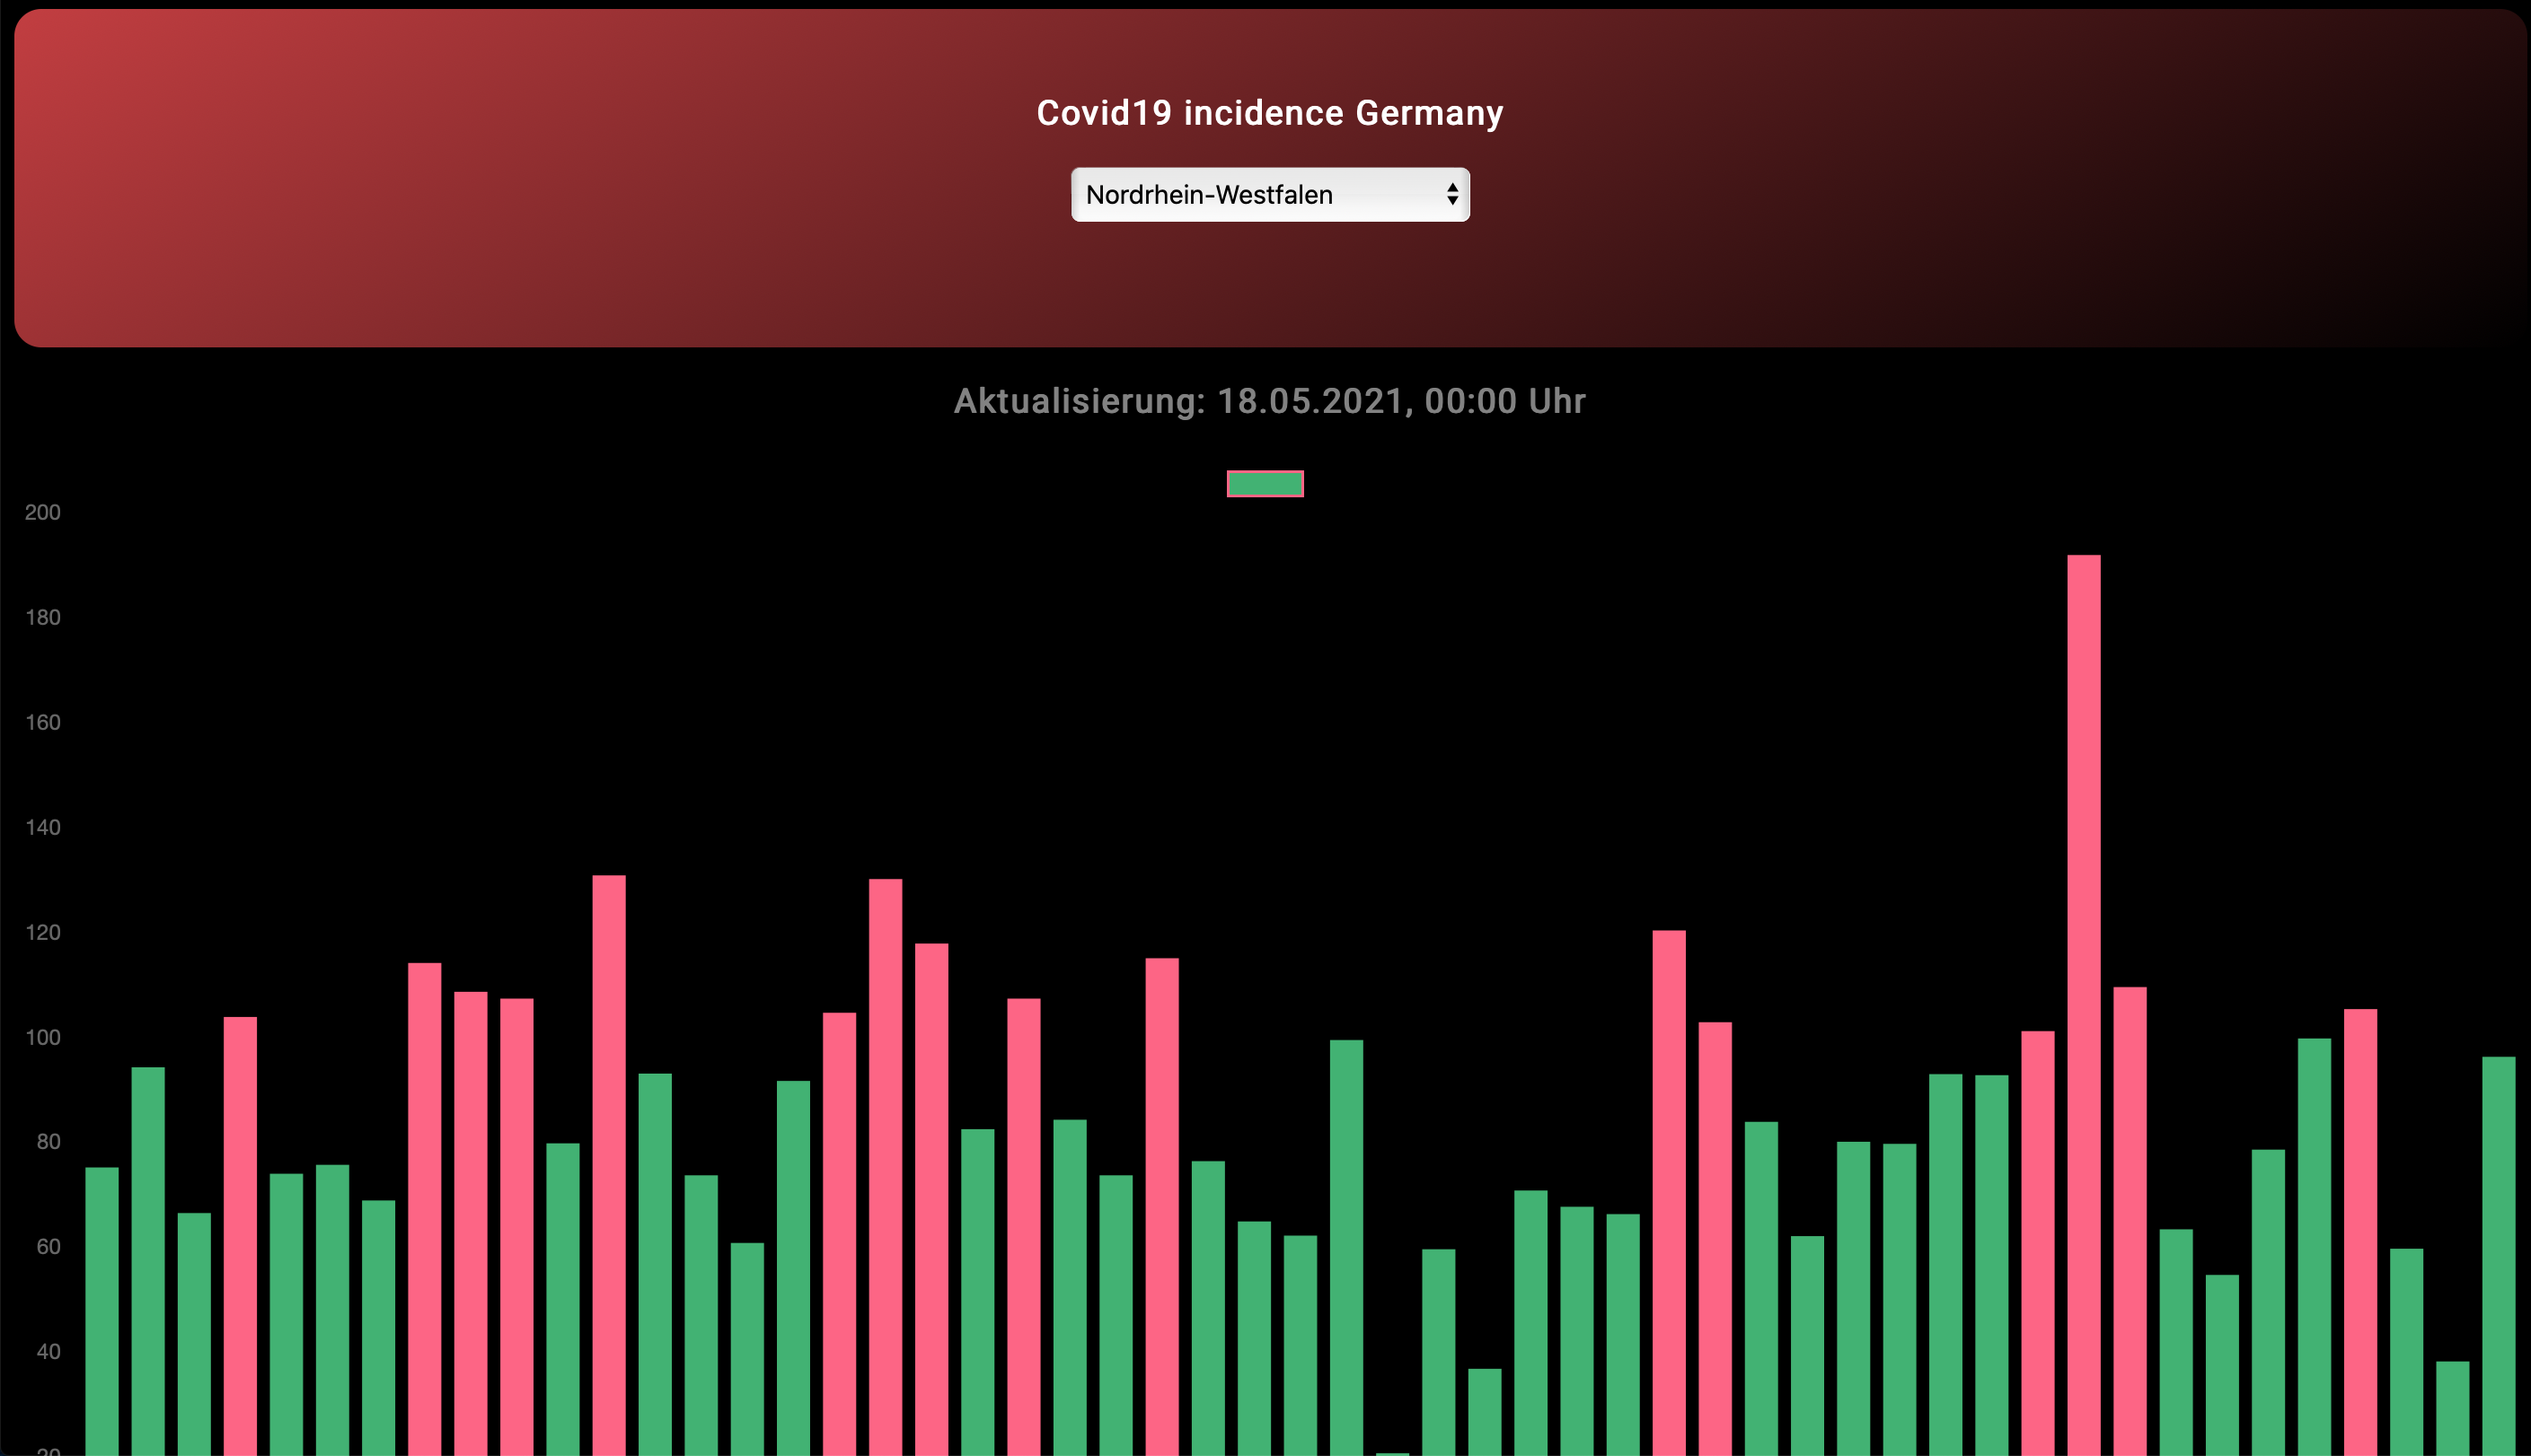
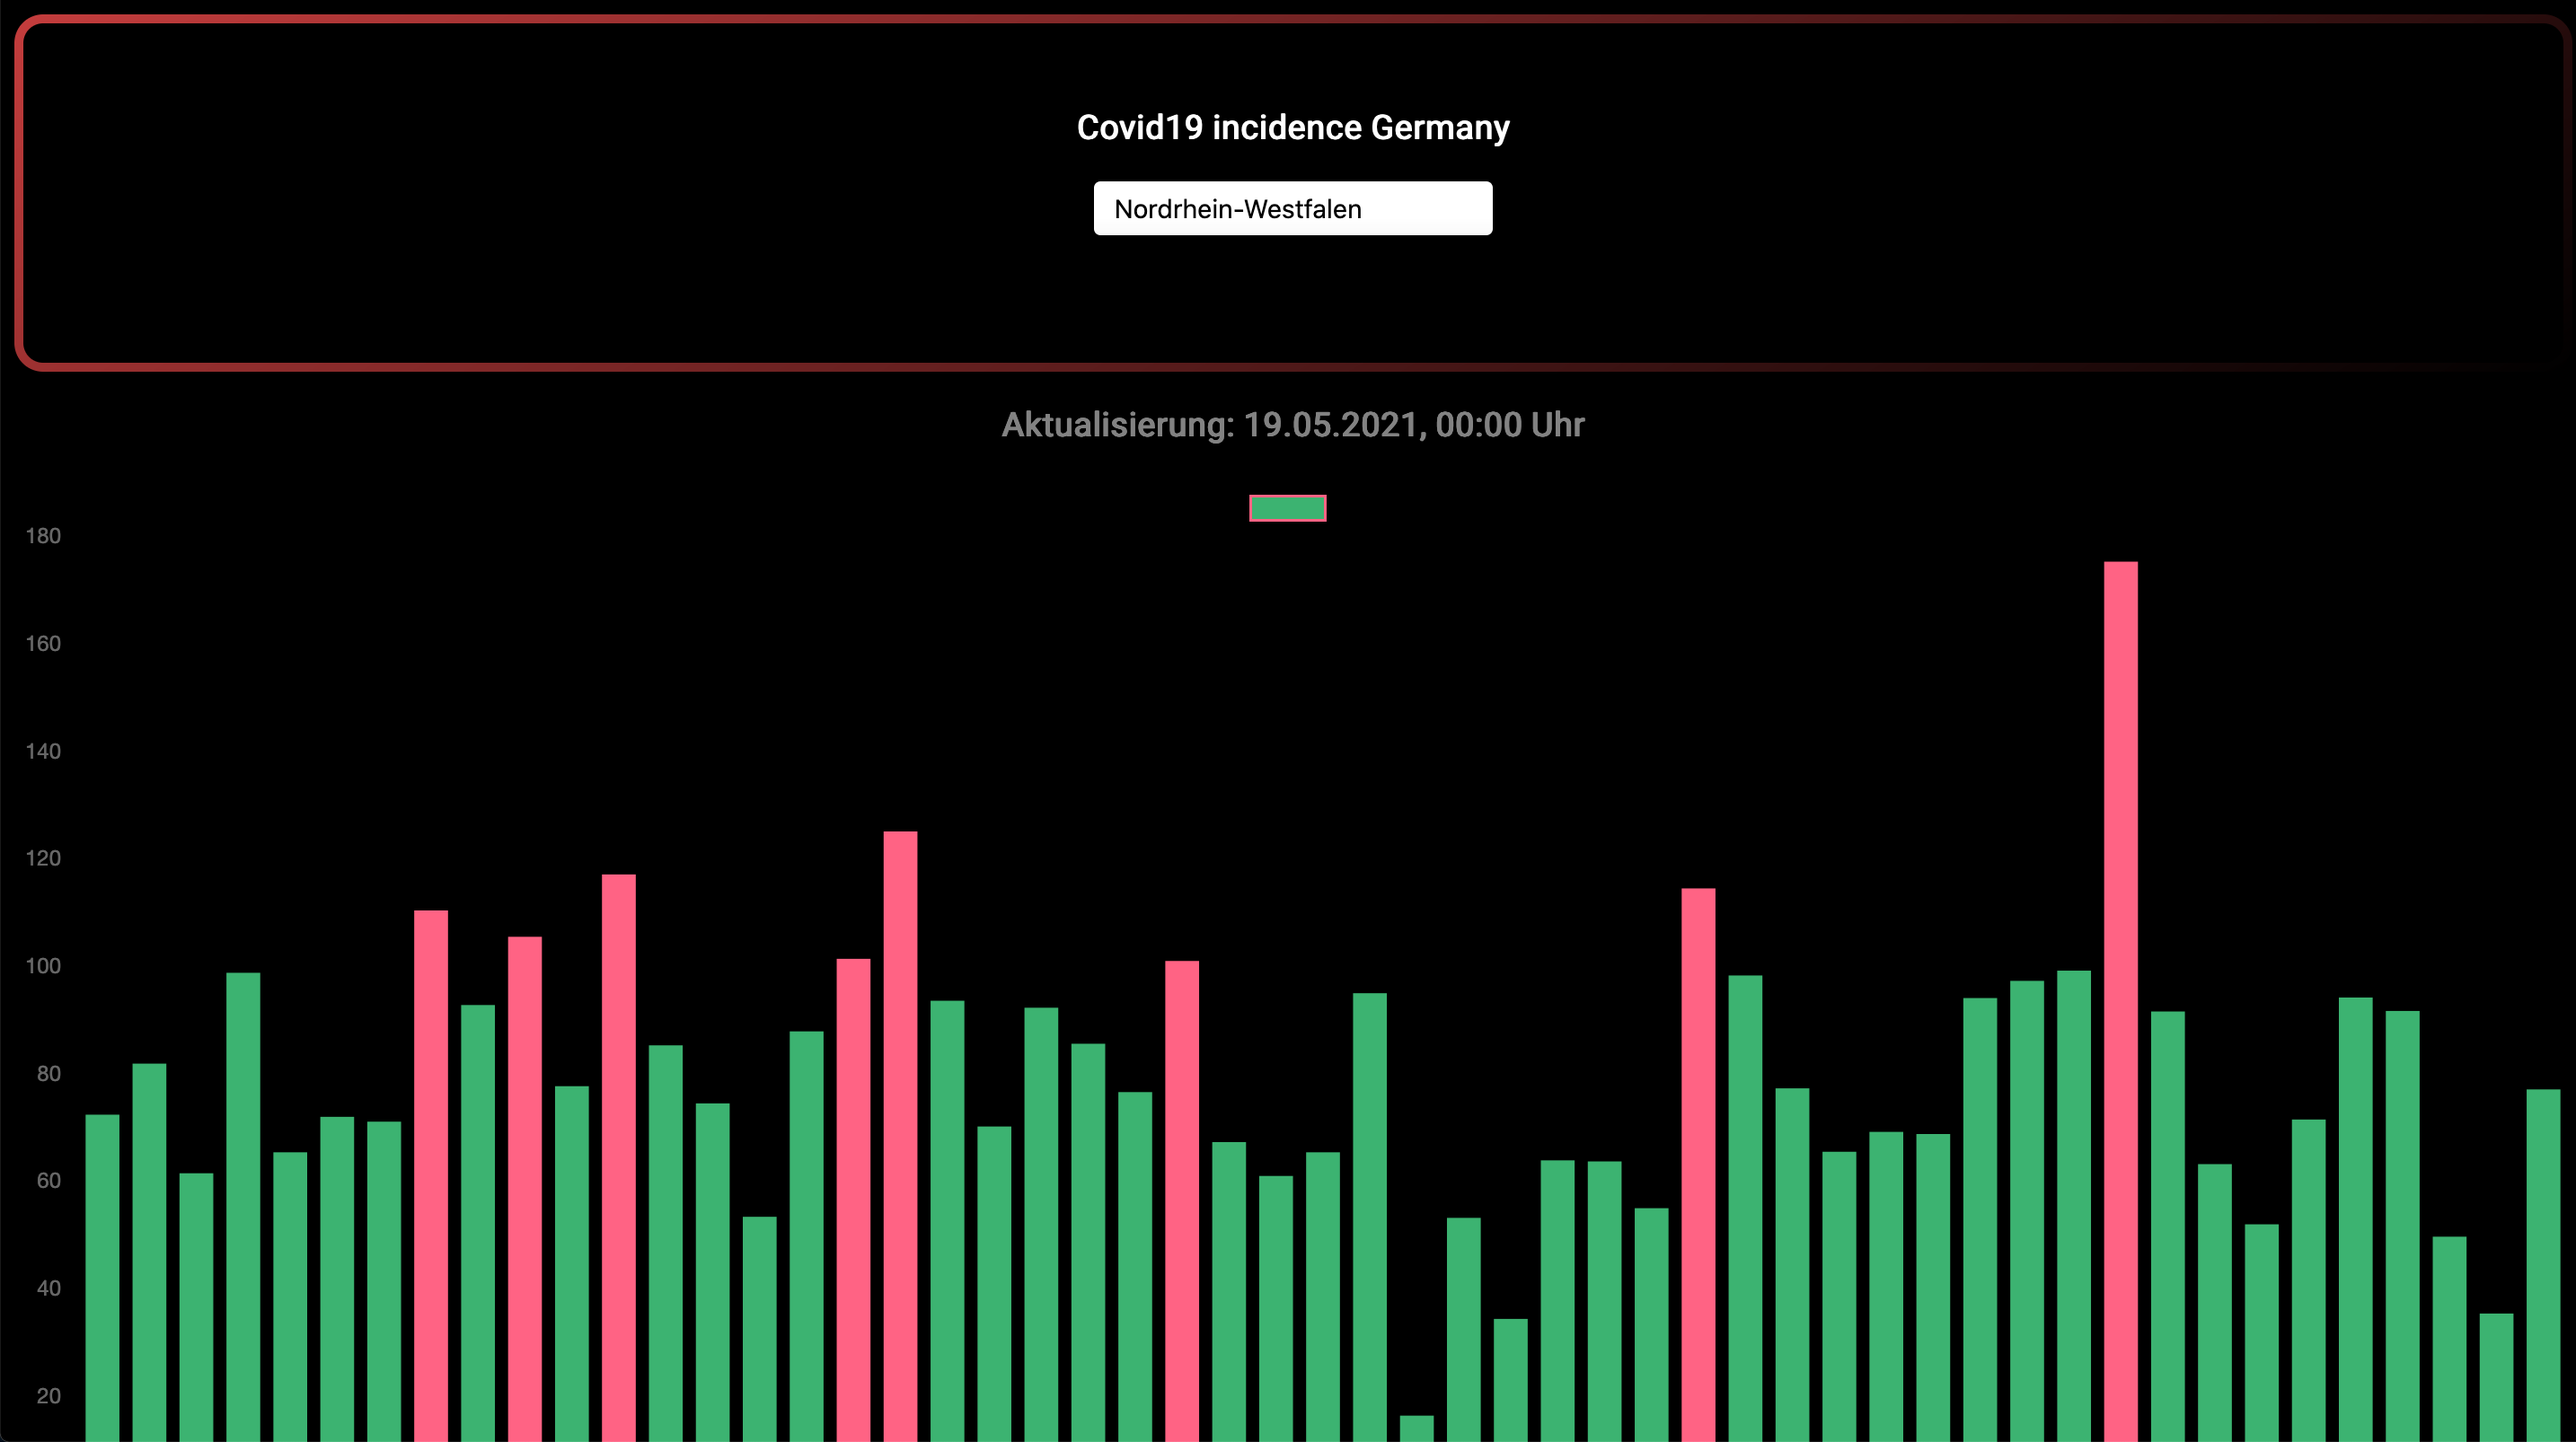
modified style

diff --git a/style.css b/style.css
@@ -127,7 +127,27 @@ select {
 
 @media only screen and (min-width: 600px) {
   .native-js {
-    background: linear-gradient(-30deg, #000, #c43d3d 100%, #38a49a) #000000;
+    /* background: linear-gradient(-30deg, #000, #c43d3d 100%, #38a49a) #000000; */
+    margin: auto;
+    position: relative;
+    box-sizing: border-box;
+    color: #fff;
+    background: #000;
+    background-clip: padding-box;
+    border: solid 5px transparent;
+    border-radius: 1em;
     width: 100%;
+  }
+  .native-js::before {
+    content: "";
+    position: absolute;
+    top: 0;
+    right: 0;
+    bottom: 0;
+    left: 0;
+    z-index: -1;
+    margin: -5px;
+    border-radius: inherit;
+    background: linear-gradient(-30deg, #000, #c43d3d 100%, #38a49a) #000000;
   }
 }
